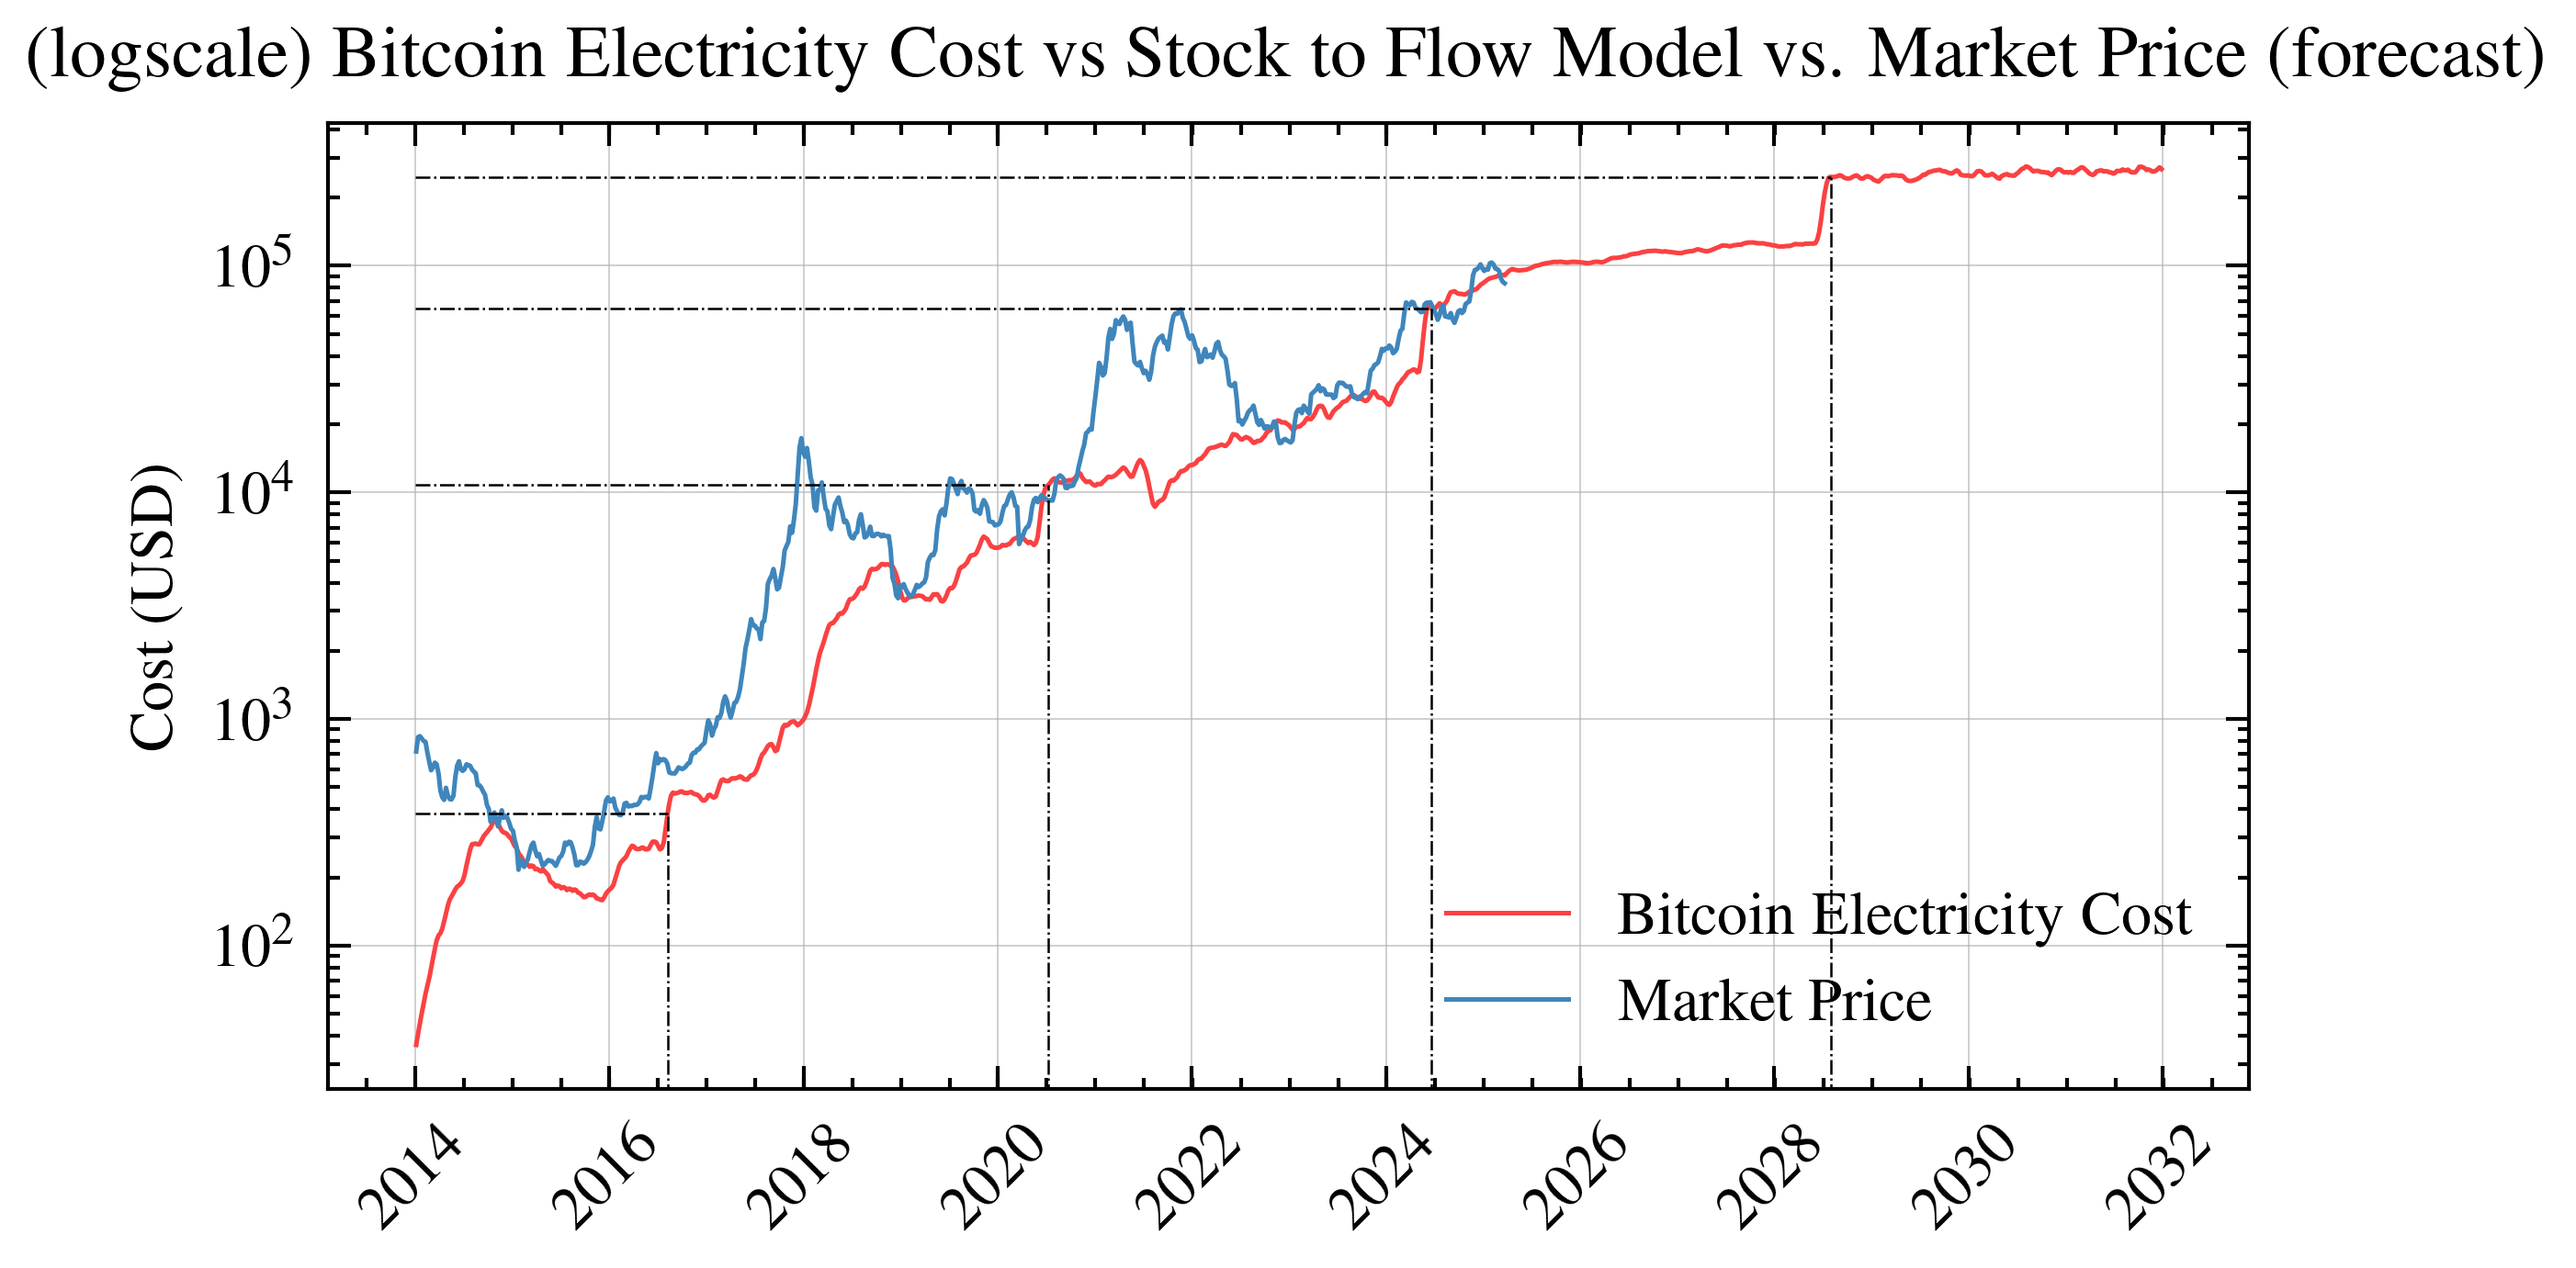
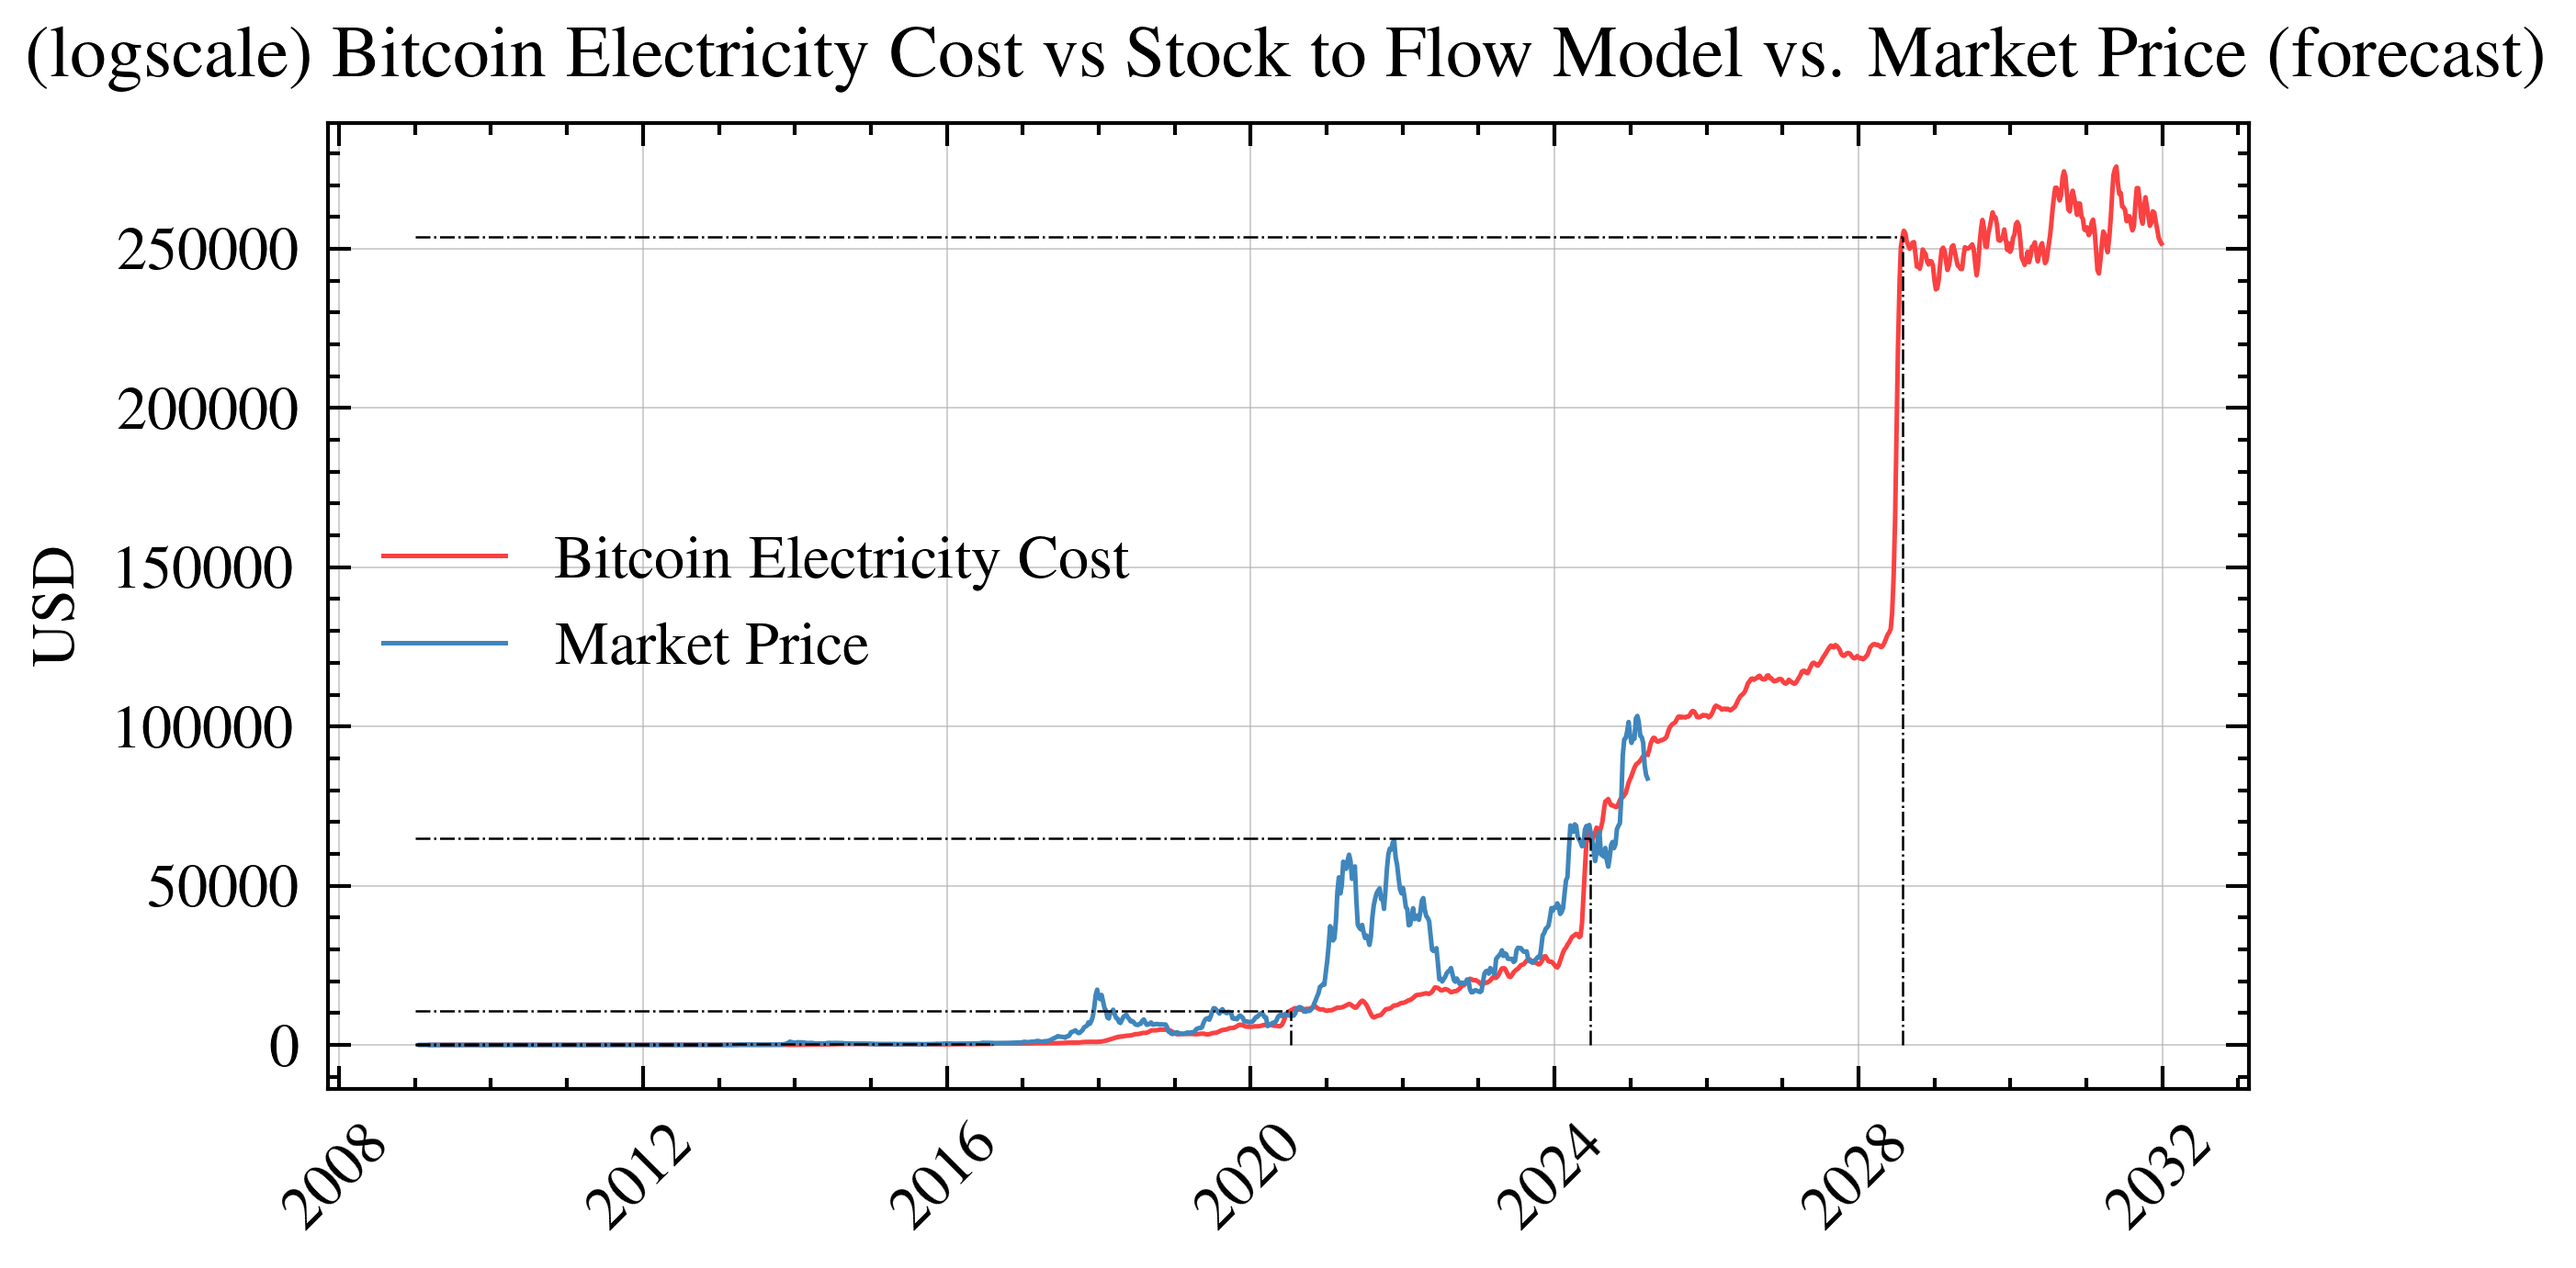
discussion

diff --git a/index.md b/index.md
@@ -184,3 +184,19 @@ Zooming out to view long-term trends:
 ![alt text](./assets/images/miningcostforecast3.png)
 
 ![alt text](./assets/images/miningcostforecast4.png)
+
+# Comparing to Stock-to-Flow (S2F)
+
+The Stock-to-Flow (S2F) model assesses Bitcoin’s scarcity by comparing existing supply ("stock") to new annual issuance ("flow"). Popularized by PlanB, this model argues that Bitcoin's value increases predictably as its issuance rate declines every four years during halving events. 
+1. The Bitcoin Energy Cost Model presented emphasizes mining efficiency, technological evolution, and energy prices to analyze Bitcoin’s valuation sustainability. Comparatively, the Stock-to-Flow (S2F) model centers around Bitcoin’s scarcity dynamics, highlighting halving events and reduced issuance rates to forecast future prices. 
+2. The Stock-to-Flow (S2F) model uses arbitrary "magic numbers" within its equations, leading to speculative price predictions. Conversely, our Bitcoin Energy Cost Model is grounded in physics-based fundamentals, relying on measurable, transparent parameters like miner efficiency improvements, actual hardware performance, and real-world energy consumption
+
+![alt text](./assets/images/miningcostforecaststf1.png)
+
+
+# Price Channels Defined by Bitcoin Electricity Cost (Hypothesis)
+Our hypothesis suggests Bitcoin's price channels are established roughly 60 days after each halving event, as determined by the Bitcoin Electricity Cost Model. These channels form economic boundaries within which Bitcoin’s market price consistently oscillates.
+
+![alt text](./assets/images/miningcostforecaststf2.png)
+
+![alt text](./assets/images/miningcostforecaststf3.png)
